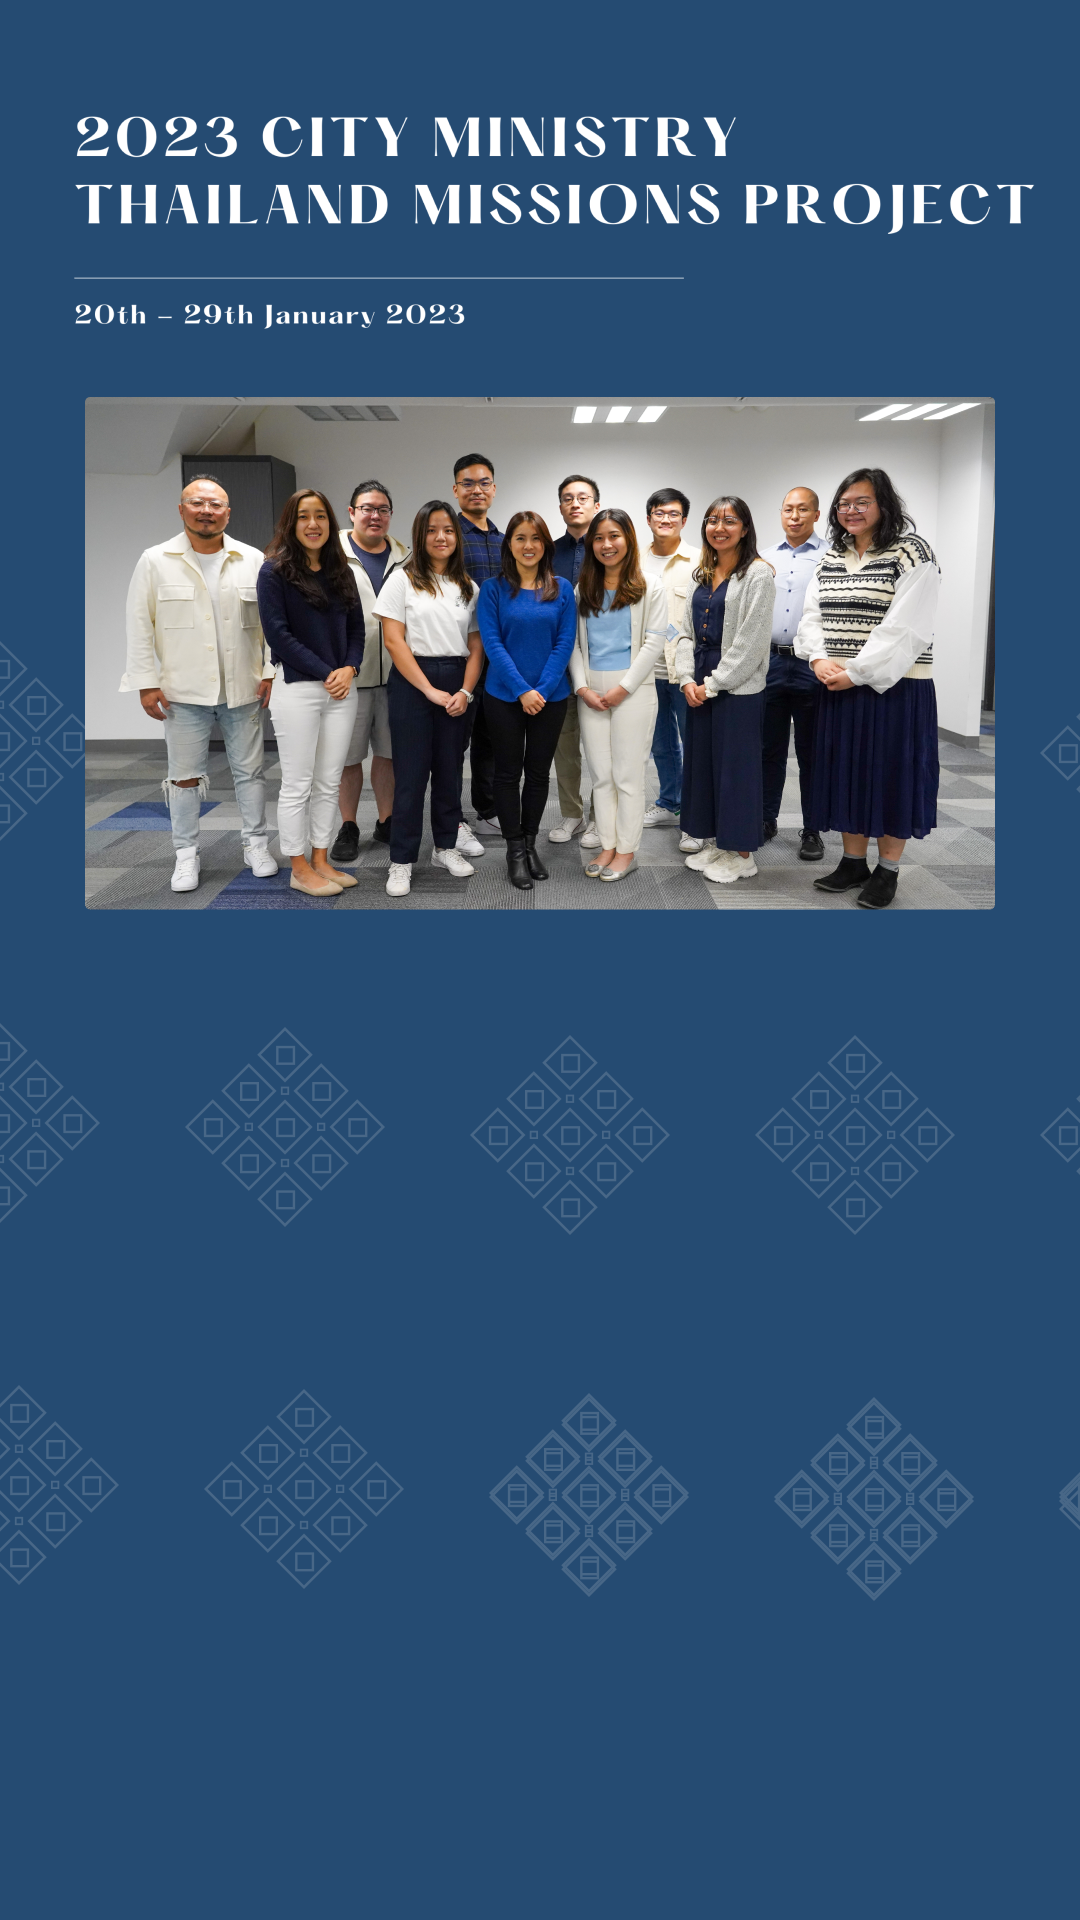
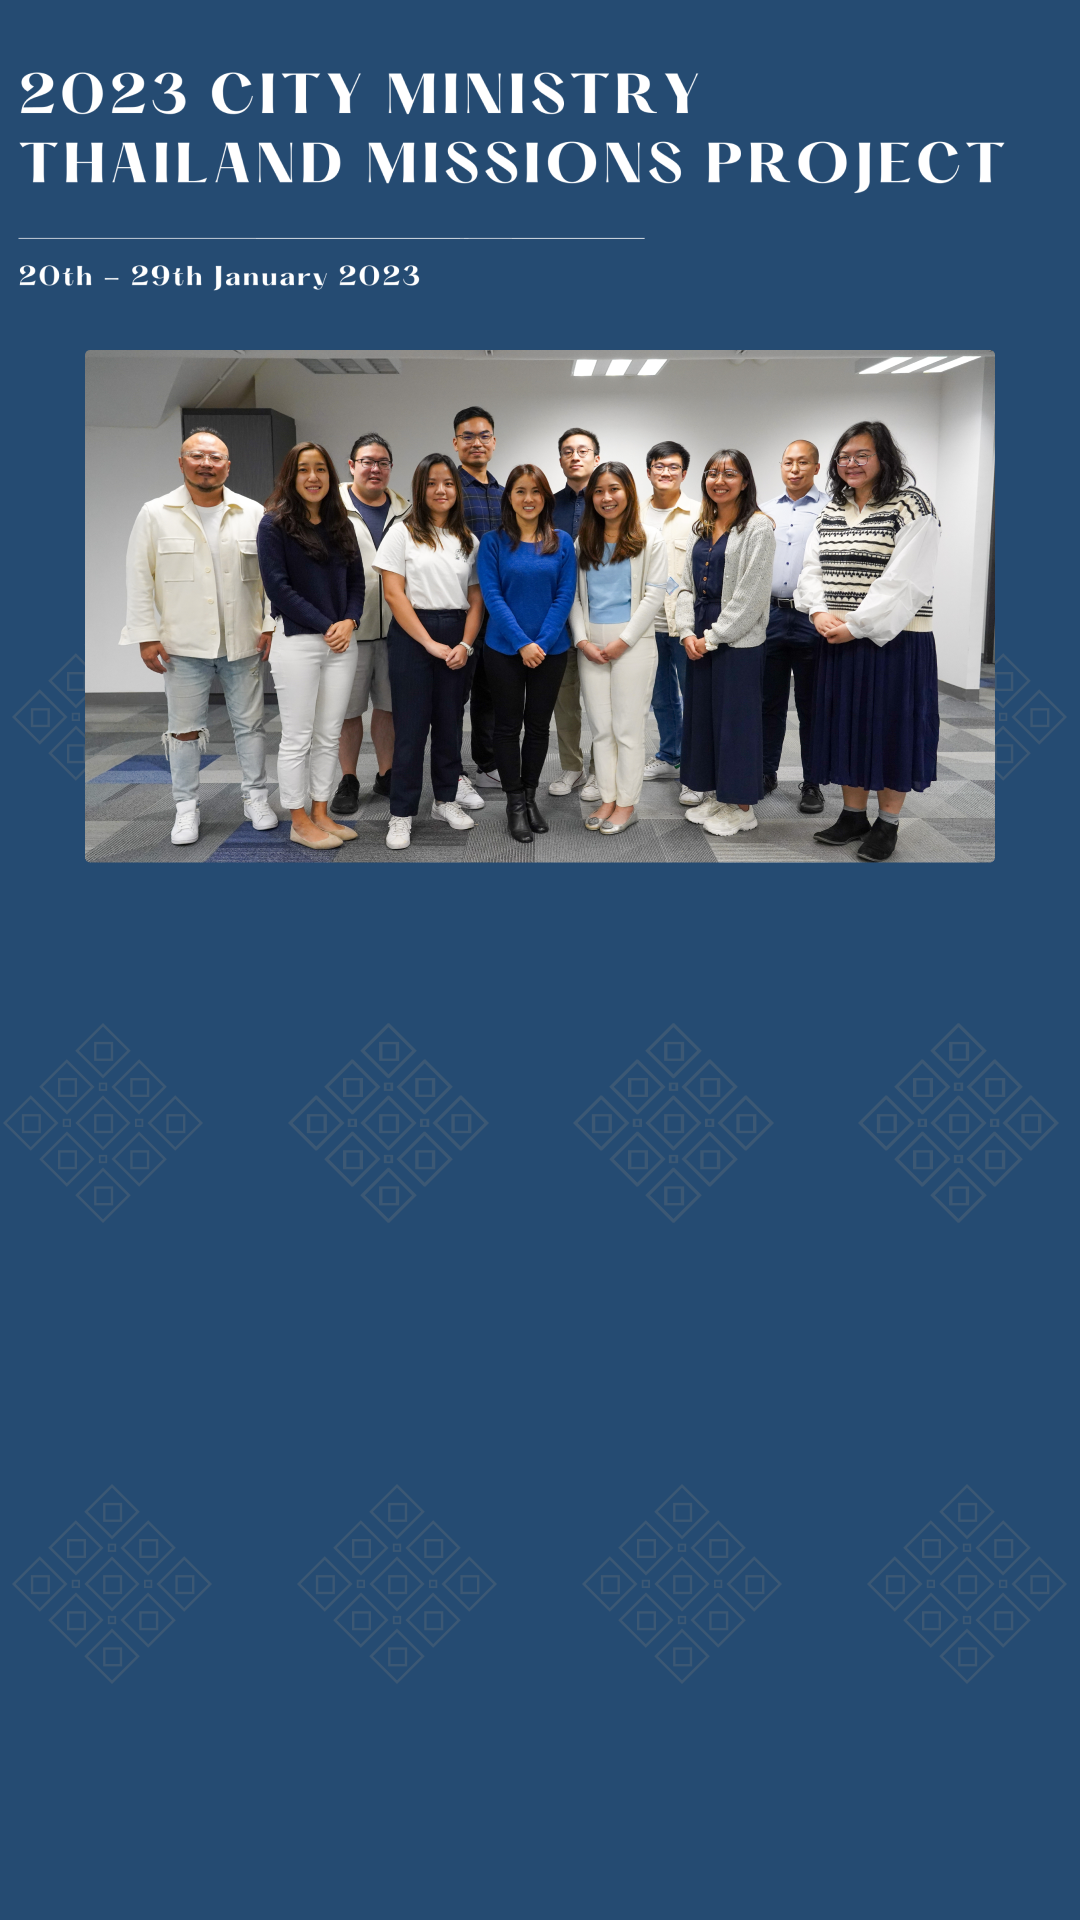
GH-705: finish site

diff --git a/ui/src/components/missions/MissionsContainer.js b/ui/src/components/missions/MissionsContainer.js
@@ -30,7 +30,7 @@ const MissionsContainer = () => {
         bgImage={process.env.PUBLIC_URL + '/images/tmp-2023/middle_bg.png'}
         bgSize="contain"
         bgRepeat="repeat"
-        bgPos="center"
+        bgPos="top center"
       >
         <Container
           maxW="container.md"
@@ -39,6 +39,7 @@ const MissionsContainer = () => {
           textAlign="justify"
         >
           <VStack gap={4}>
+            <Text fontSize="3xl">WHY</Text>
             <Text>
               <b>Why do we go on missions as a Christ follower?</b>
               <br />
@@ -50,40 +51,47 @@ const MissionsContainer = () => {
             </Text>
             <Text>
               <b>How does missions fit into our church’s vision and mission?</b>
-              <br /> In our church, missions is ingrained in our DNA. We want to
-              see the multiplication of churches in campuses and cities to
-              transform the next generation among the nations, and where lost
-              people are transformed into Christ’s disciples who will then
-              transform the world. Short term missions projects are one way to
-              be inspired and experience this.
+              <br />
+              In our church, missions is ingrained in our DNA. We want to see
+              the multiplication of churches in campuses and cities to transform
+              the next generation among the nations, and where lost people are
+              transformed into Christ’s disciples who will then transform the
+              world. Short term missions projects are one way to be inspired and
+              experience this.
             </Text>
             <Text>
               <b>
                 Why are we going to Thailand for Missions this Chinese New Year?
               </b>
-              <br /> By God’s grace, as the borders opened up, we were offered
-              the opportunity to enter Thailand and serve the local ministry in
-              the region. We see this as a way to respond to God’s calling for
-              us to live out the Great Commandment and Commission.
+              <br />
+              By God’s grace, as the borders opened up, we were offered the
+              opportunity to enter Thailand and serve the local ministry in the
+              region. We see this as a way to respond to God’s calling for us to
+              live out the Great Commandment and Commission.
+            </Text>
+            <Text pt="2em" fontSize="3xl">
+              WHAT
             </Text>
             <Text>
-              What We Will be Doing The 12 members of the Thailand Missions
-              Project Team will be going to Bangkok and Chiang Mai between
-              January 20th - 29th. During their time there, the team will:
+              <b>What We Will be Doing</b>
+              <br />
+              The 12 members of the Thailand Missions Project Team will be going
+              to Bangkok and Chiang Mai between January 20th - 29th. During
+              their time there, the team will:
             </Text>
             <Text w="100%">
               <UnorderedList>
                 <ListItem>
-                  Spend time with the children and teachers in Mango House at
-                  Chiang Mai through after-school and weekend activities
+                  Spend time with the children and teachers at Mango House in
+                  Chiang Mai through after-school and weekend activities;
                 </ListItem>
                 <ListItem>
                   Serve the refugees from Myanmar in Northern Thailand who left
-                  due to instability in the region
+                  due to instability in the region; and
                 </ListItem>
                 <ListItem>
-                  Steep ourselves in the city and learn about the spiritual
-                  climate with local missionaries in Bangkok.
+                  Steep ourselves in the city of Bangkok and learn about the
+                  spiritual climate with local missionaries.
                 </ListItem>
               </UnorderedList>
             </Text>
@@ -94,36 +102,183 @@ const MissionsContainer = () => {
                 https://www.elijahfoundation.org/mangohouse
               </Link>
             </Text>
+
+            <Text pt="2em" fontSize="3xl">
+              HOW TO SUPPORT
+            </Text>
             <Text>
-              <b>Prayer Support:</b> We believe that apart from God, we can do
-              nothing. Therefore, we want to seek God in everything we do as we
-              enter this Missions Project. Here are our prayer requests:
+              <b>Prayer Support:</b>
+              We believe that apart from God, we can do nothing. We also want to
+              invite you to partner with us in God’s mission through prayer.
+              Therefore, we want to seek God in everything we do as we enter
+              this Missions Project. Here are our prayer requests:
             </Text>
             <Text>
               <UnorderedList>
                 <ListItem>
-                  UNITY as a team. To support one another as the body of Christ
-                  and grow deeper in our love for God and His people.
+                  <b>
+                    <i>UNITY</i>
+                  </b>{' '}
+                  as a team. To support one another as the body of Christ and
+                  grow deeper in our love for God and His people.
                 </ListItem>
                 <ListItem>
-                  PROVISION in the Missions Project. For God’s provision and
-                  protection over the Missions Project during the process of
-                  training and fieldwork.
+                  <b>
+                    <i>PROVISION</i>
+                  </b>{' '}
+                  in the Missions Project. For God’s provision and protection
+                  over the Missions Project during the process of training and
+                  fieldwork.
                 </ListItem>
                 <ListItem>
-                  GOSPEL to be shared. For the children and people we will
-                  encounter in Thailand to experience the transformative power
-                  of the Gospel.
+                  <b>
+                    <i>GOSPEL</i>
+                  </b>{' '}
+                  to be shared. For the children and people we will encounter in
+                  Thailand to experience the transformative power of the Gospel.
                 </ListItem>
               </UnorderedList>
             </Text>
             <Text>
               <b>Financial Support</b>: To respond to God’s calling on the team
               to share the Gospel with the people in Thailand, we also need to
-              raise HK$152,900 before January 20th to support the various
-              expenses on the trip and the local needs. If you feel convicted to
-              partner with us financially, you can give through the following
-              instructions on our website: hongkong.hmcc.net/tmp-2023
+              raise <b>HK$152,900</b> before January 20th to support the various
+              expenses on the trip and the local needs.
+            </Text>
+            <Text w="100%">
+              <b>Giving by Cash</b>
+              <UnorderedList>
+                <ListItem>
+                  Please put cash in an envelope and include a{' '}
+                  <u>
+                    note: "HMI-P for{' '}
+                    <Text as="span" color="#FFFF00">
+                      TEAM MEMBER NAME
+                    </Text>
+                    "
+                  </u>
+                </ListItem>
+                <ListItem>
+                  You may drop it off in the offering box at HMCC at Sunday
+                  Celebration
+                </ListItem>
+              </UnorderedList>
+            </Text>
+            <Text w="100%">
+              <b>Giving by Cheque</b>
+              <UnorderedList>
+                <ListItem>
+                  All Checks should be made out to: “Harvest Mission Community
+                  Church (Hong Kong) Limited”
+                </ListItem>
+                <ListItem>
+                  Please put the cheque in an envelope and include a{' '}
+                  <u>
+                    note: "HMI-P for{' '}
+                    <Text as="span" color="#FFFF00">
+                      TEAM MEMBER NAME
+                    </Text>
+                    "
+                  </u>
+                </ListItem>
+                <ListItem>
+                  You may drop off the cheque in an offering box also mail it
+                  to: <br /> P.O. Box 50443 Sai Ying Pun Post Office Sai Ying
+                  Pun, Hong Kong
+                </ListItem>
+              </UnorderedList>
+            </Text>
+            <Text w="100%">
+              <b>Giving by Bank Transfer</b>
+              <UnorderedList>
+                <ListItem>
+                  Bank Name: China Construction Bank (Asia) Corporation Limited
+                  <br />
+                  Bank Code: 009
+                  <br />
+                  Branch Code: 845
+                  <br />
+                  Account Name: Harvest Mission Community Church (Hong Kong)
+                  <br />
+                  Limited Account Number: 400147911
+                  <br />
+                  Please{' '}
+                  <u>
+                    note: "HMI-P for{' '}
+                    <Text as="span" color="#FFFF00">
+                      TEAM MEMBER NAME
+                    </Text>
+                    "
+                  </u>
+                </ListItem>
+                <ListItem>
+                  If our account name is too long and exceeds the number of
+                  permitted characters, you may shorten it as “Harvest Mission
+                  Community Church HK”.
+                </ListItem>
+                <ListItem>
+                  Please email a copy of your transfer receipt along with your
+                  Full Name within 2 weeks to{' '}
+                  <Link href="mailto:stewardship@hongkong.hmcc.net">
+                    stewardship@hongkong.hmcc.net
+                  </Link>
+                  .
+                </ListItem>
+              </UnorderedList>
+            </Text>
+            <Text w="100%">
+              <b>Giving by Credit Card (also for those abroad)</b>
+              <UnorderedList>
+                <ListItem>
+                  Please use this{' '}
+                  <Link href="https://tithe.ly/give_new/www/#/tithely/give-one-time/645349">
+                    link
+                  </Link>{' '}
+                  to give online via credit card:
+                  <br />
+                  <Link href="https://tithe.ly/give_new/www/#/tithely/give-one-time/645349">
+                    https://tithe.ly/give_new/www/#/tithely/give-one-time/645349
+                  </Link>
+                </ListItem>
+                <ListItem>
+                  Kindly note that a portion of your giving will be deducted for
+                  online credit card transactions (3.5% + HKD $2.35 processing
+                  fee). If you wish for 100% of your contribution to go towards
+                  our church’s ministry work, please check the box to “cover
+                  fees” on the giving site
+                </ListItem>
+                <ListItem>
+                  In the giving category "To:" please select "HMI-P (Specific
+                  Missions Project)"
+                </ListItem>
+                <ListItem>
+                  In the note/memo section at the bottom, please{' '}
+                  <u>
+                    note: "HMI-P for{' '}
+                    <Text as="span" color="#FFFF00">
+                      TEAM MEMBER NAME
+                    </Text>
+                    "
+                  </u>
+                </ListItem>
+              </UnorderedList>
+            </Text>
+            <Text w="100%" pb="5em">
+              <b>Other Support Raising Initiatives</b>
+              <UnorderedList>
+                <ListItem>
+                  Hoodie & T-Shirt Purchasing Link:{' '}
+                  <Link href="https://bit.ly/TMP23Merch">
+                    <u>bit.ly/TMP23Merch</u>
+                  </Link>
+                </ListItem>
+                <ListItem>
+                  Bidding Challenge{' '}
+                  <Link href="https://bit.ly/TMPBiddingChallenge">
+                    <u>bit.ly/TMPBiddingChallenge</u>
+                  </Link>
+                </ListItem>
+              </UnorderedList>
             </Text>
           </VStack>
         </Container>
